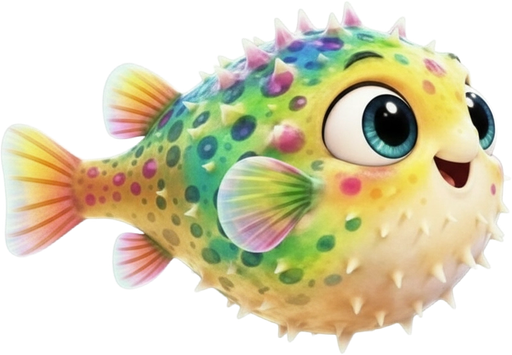
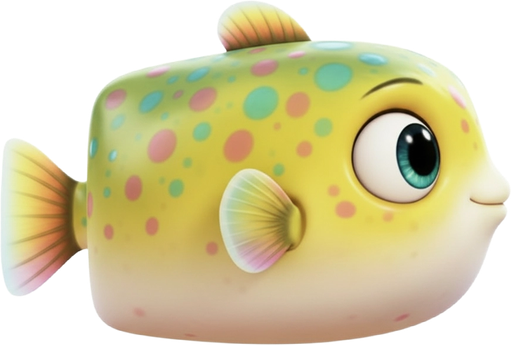
Fin animation, puff as air brake, boxfish-shaped normal Lompi
- Swim animation: the sprite is a bendable strip mesh, the tail end waves
  with swim effort and speed (idle flutter when still)
- Puffing up stops the fish and it hovers in place while inflated
- Normal Lompi redrawn after a real boxfish (soft rounded case shape)
- Smoother fade under the waterline

diff --git a/game/Pufferfish.js b/game/Pufferfish.js
@@ -7,19 +7,20 @@ export const FISH = {
     brake: 0.9,
     alignFrom: 3,          // below this speed the fish stays level
     alignFull: 8,          // from this speed it fully points along its movement
+    wiggleSegments: 12,    // strips the sprite is cut into for the swim animation
     turnRate: 0.2,         // radians per step the nose turns toward the travel direction            // velocity kept per step while braking
     mass: 6,
     inflateMs: 2600,
     cooldownMs: 500,
-    buoyancy: 0.0005,     // upward force per unit mass while inflated
+    hoverLift: 0.00012,    // cancels the sink while inflated (hover in place)     // upward force per unit mass while inflated
     airGravity: 0.0011,    // extra downward force per unit mass above the water
     airDrag: 0.0015,        // almost no drag in the air
     airControl: 0,         // fraction of swim thrust available in the air (flying fish: > 0)
     shoveRadius: 340,
     shovePower: 16,
     states: {
-        normal: { key: 'puffer_normal', width: 170, radius: 56, air: 0.03, bounce: 0.35 },
-        inflated: { key: 'puffer_inflated', width: 255, radius: 98, air: 0.05, bounce: 0.75 }
+        normal: { key: 'puffer_normal', width: 170, radius: 56, air: 0.03, bounce: 0.35, wiggle: 30 },
+        inflated: { key: 'puffer_inflated', width: 255, radius: 98, air: 0.2, bounce: 0.75, wiggle: 9 }
     }
 };
 
@@ -49,7 +50,17 @@ export default class Pufferfish {
         // `view` is what you see: drawn every frame at a position interpolated
         // between the last two physics steps, so motion is smooth at any refresh rate.
         this.sprite = scene.matter.add.sprite(x, y, FISH.states.normal.key).setVisible(false);
-        this.view = scene.add.image(x, y, FISH.states.normal.key).setDepth(5);
+        // One bendable strip-mesh per state: the tail end is waved for the fin /
+        // swim animation (see render()).
+        this.views = {};
+        for (const [name, s] of Object.entries(FISH.states)) {
+            const rope = scene.add.rope(x, y, s.key, null, FISH.wiggleSegments, true).setDepth(5).setVisible(false);
+            rope.baseScale = s.width / rope.frame.width;
+            this.views[name] = rope;
+        }
+        this.view = this.views.normal;
+        this.swimPhase = 0;
+        this.effort = 0;
         this.prev = new Phaser.Math.Vector2(x, y);
         this.cur = new Phaser.Math.Vector2(x, y);
         this.applyState('normal');
@@ -66,8 +77,10 @@ export default class Pufferfish {
         const vel = sp.body ? { x: sp.body.velocity.x, y: sp.body.velocity.y } : { x: 0, y: 0 };
         this.state = name;
 
-        this.view.setTexture(s.key);
-        this.view.setDisplaySize(s.width, s.width * (this.view.frame.height / this.view.frame.width));
+        const old = this.view;
+        this.view = this.views[name];
+        this.view.setPosition(old.x, old.y).setRotation(old.rotation).setAlpha(1).setVisible(true);
+        if (old !== this.view) old.setVisible(false);
         sp.setScale(1);
         sp.setBody({ type: 'circle', radius: s.radius });
         sp.setFixedRotation()
@@ -83,6 +96,7 @@ export default class Pufferfish {
     thrust(dir) {
         const k = this.inAir ? FISH.airControl : 1; // no swimming in the air
         this.sprite.applyForce(dir.clone().scale(FISH.thrust * this.body.mass * k));
+        if (k > 0) this.effort = Math.min(1, this.effort + dir.length() * 0.25);
     }
 
     seekTo(point) {
@@ -125,6 +139,8 @@ export default class Pufferfish {
         if (this.cooldown > 0) return;
         this.applyState('inflated');
         this.inflateLeft = FISH.inflateMs;
+        // Air brake: puffing up stops the fish where it is (in the water).
+        if (!this.inAir) this.sprite.setVelocity(this.body.velocity.x * 0.25, this.body.velocity.y * 0.25);
 
         // Shove loose bodies away + ring flash.
         const origin = this.pos;
@@ -181,7 +197,7 @@ export default class Pufferfish {
         if (this.inAir) this.sprite.applyForce({ x: 0, y: FISH.airGravity * this.body.mass });
 
         if (this.inflated) {
-            if (!this.inAir) this.sprite.applyForce({ x: 0, y: -FISH.buoyancy * this.body.mass });
+            if (!this.inAir) this.sprite.applyForce({ x: 0, y: -FISH.hoverLift * this.body.mass });
             this.inflateLeft -= dt;
             if (this.inflateLeft <= 0) this.deflate();
         }
@@ -216,8 +232,22 @@ export default class Pufferfish {
         const level = this.facing < 0 ? Math.PI : 0;
         const follow = Phaser.Math.Clamp((speed - FISH.alignFrom) / (FISH.alignFull - FISH.alignFrom), 0, 1);
         const target = level + Phaser.Math.Angle.Wrap(Math.atan2(v.y, v.x) - level) * follow;
-        this.view.setFlipY(this.facing < 0);
+        this.view.setScale(this.view.baseScale, this.view.baseScale * (this.facing < 0 ? -1 : 1));
         this.view.rotation = Phaser.Math.Angle.RotateTo(this.view.rotation, target, FISH.turnRate * frames);
+
+        // Fin / tail animation: wave the strip mesh, strongest at the tail (left
+        // end of the art), driven by how hard the fish is swimming and how fast
+        // it moves. Idle = a slow, small flutter.
+        this.effort = Math.max(0, this.effort - 0.035 * frames);
+        const drive = Phaser.Math.Clamp(Math.max(this.effort, speed / 14), 0.12, 1);
+        this.swimPhase += (0.1 + drive * 0.42) * frames;
+        const amp = FISH.states[this.state].wiggle * (0.25 + drive * 0.75);
+        const pts = this.view.points, n = pts.length - 1;
+        for (let i = 0; i <= n; i++) {
+            const tail = 1 - i / n;                       // 1 at the tail, 0 at the nose
+            pts[i].y = Math.sin(this.swimPhase - tail * 2.6) * amp * tail * tail;
+        }
+        this.view.setDirty();
     }
 }
 

diff --git a/game/level/Backdrop.js b/game/level/Backdrop.js
@@ -77,7 +77,7 @@ export default class Backdrop {
             this.sea.fillStyle(0x9be9ef, 1).beginPath().moveTo(x0, 62);
             for (const p of pts) this.sea.lineTo(p.x, p.y);
             this.sea.lineTo(x1, 62).closePath().fillPath();
-            for (let k = 0; k < 6; k++) this.sea.fillStyle(0x9be9ef, 0.85 - k * 0.15).fillRect(x0, 62 + k * 26, x1 - x0, 26);
+            for (let k = 0; k < 40; k++) this.sea.fillStyle(0x9be9ef, 0.9 * (1 - k / 40) ** 1.6).fillRect(x0, 62 + k * 6, x1 - x0, 6);
             this.foam.lineStyle(7, 0xffffff, 0.85).beginPath().moveTo(pts[0].x, pts[0].y);
             for (const p of pts) this.foam.lineTo(p.x, p.y);
             this.foam.strokePath();
